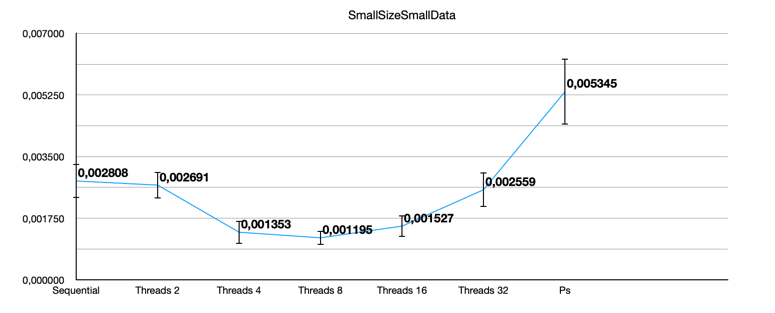
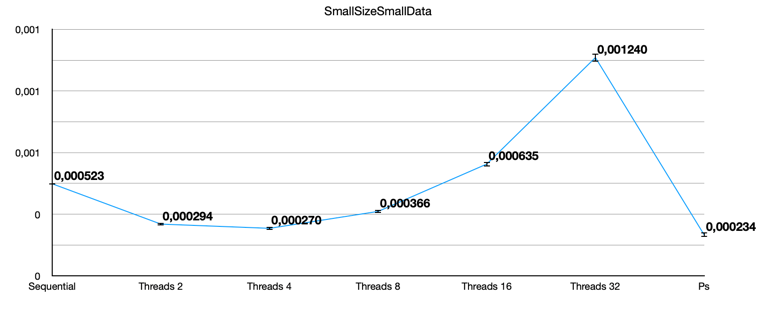
final

diff --git a/Task_2_1_1/README.md b/Task_2_1_1/README.md
@@ -32,7 +32,7 @@
 3. smallSizeBigData
 ![img_3.png](Measures/smallSizeBigData.png)
 4. smallSizeSmallData
-![img_4.png](Measures/smallSizeSmallData.png)
+![img4.png](Measures/smallSizeSmallData.png)
 **Рис 1-4**. Измерение скорости работы алгоритмов на 4 наборах данных.
 На вертикальной оси отмечено **время в секундах**, на горизонтальной оси **реализация алгоритма**.
 На графиках указаны среднее значение скорости работы и доверительные интервалы 95%.
@@ -49,10 +49,9 @@
 больше ресурсов и времени на "распараллеливание" алгоритма, нежели на чистое выполнение алгоритма.   
 
 Реализация через `ParallelStream` хорошо себя показывает при работе с большими числами (~1_000_000_000), время
-выполнения примерно схоже с реализацией `Threads16` и `Threads32`. Однако, при работе с маленькими числами алгоритм
-уступает `Threads` во времени выполнения, и близится к `Sequential`, а в работе с массивом smallSizeSmallData и вовсе
-почти вдвое уступает обычной последовательной реализации. Опять же, это можно объяснить тем, что уходит большое
-количество времени и ресурсов на "распараллеливание" алгоритма. 
+выполнения примерно схоже с реализацией `Threads16` и `Threads32`. Это можно объяснить тем, что уходит большое
+количество времени и ресурсов на "распараллеливание" алгоритма. Однако, при работе с маленькими числами алгоритм
+выигрывает `Threads` во времени выполнения. 
 
 Исходя из анализа полученных данных, можно выдвинуть некоторые рекомендации по использованию алгоритмов с разными
 наборами данных. Последовательный алгоритм неплохо себя показывает на небольших(~10000 элементов). Но, Threads с 2
@@ -61,6 +60,5 @@
 
 Но, при работе с большими массивами, в независимости от размера чисел, будет выигрывать алгоритм 
 `Threads`. Графики это подтверждают, на них прекрасно видно, что реализации Threads с 8 16 или 32 потоками выигрывают 
-ParallelStream. Так что лучше всего использовать реализацию `Threads`2.
-
-Parappel Stream - 
+ParallelStream. Так что лучше всего использовать реализацию `Threads`. Однако, при маленьких размерах массивов и данных
+стоит рассмотреть `ParallelStream`.